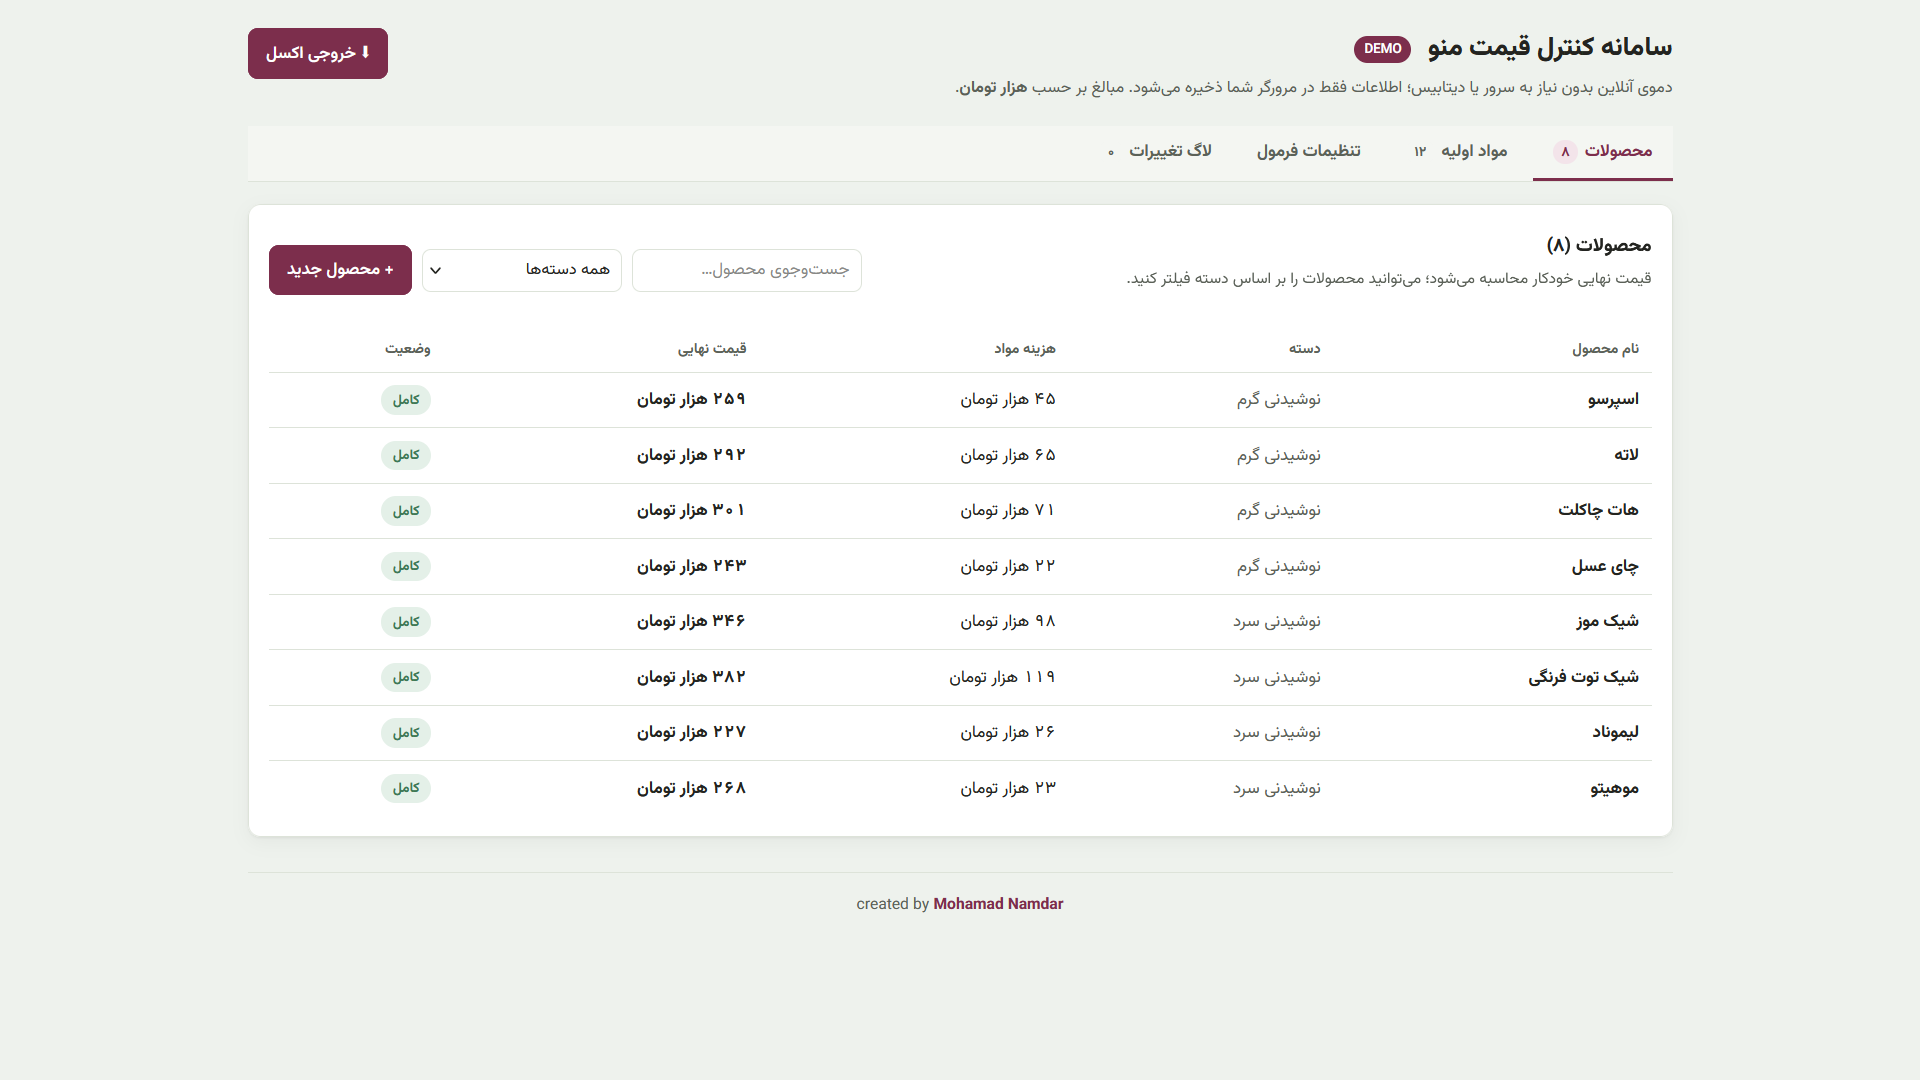
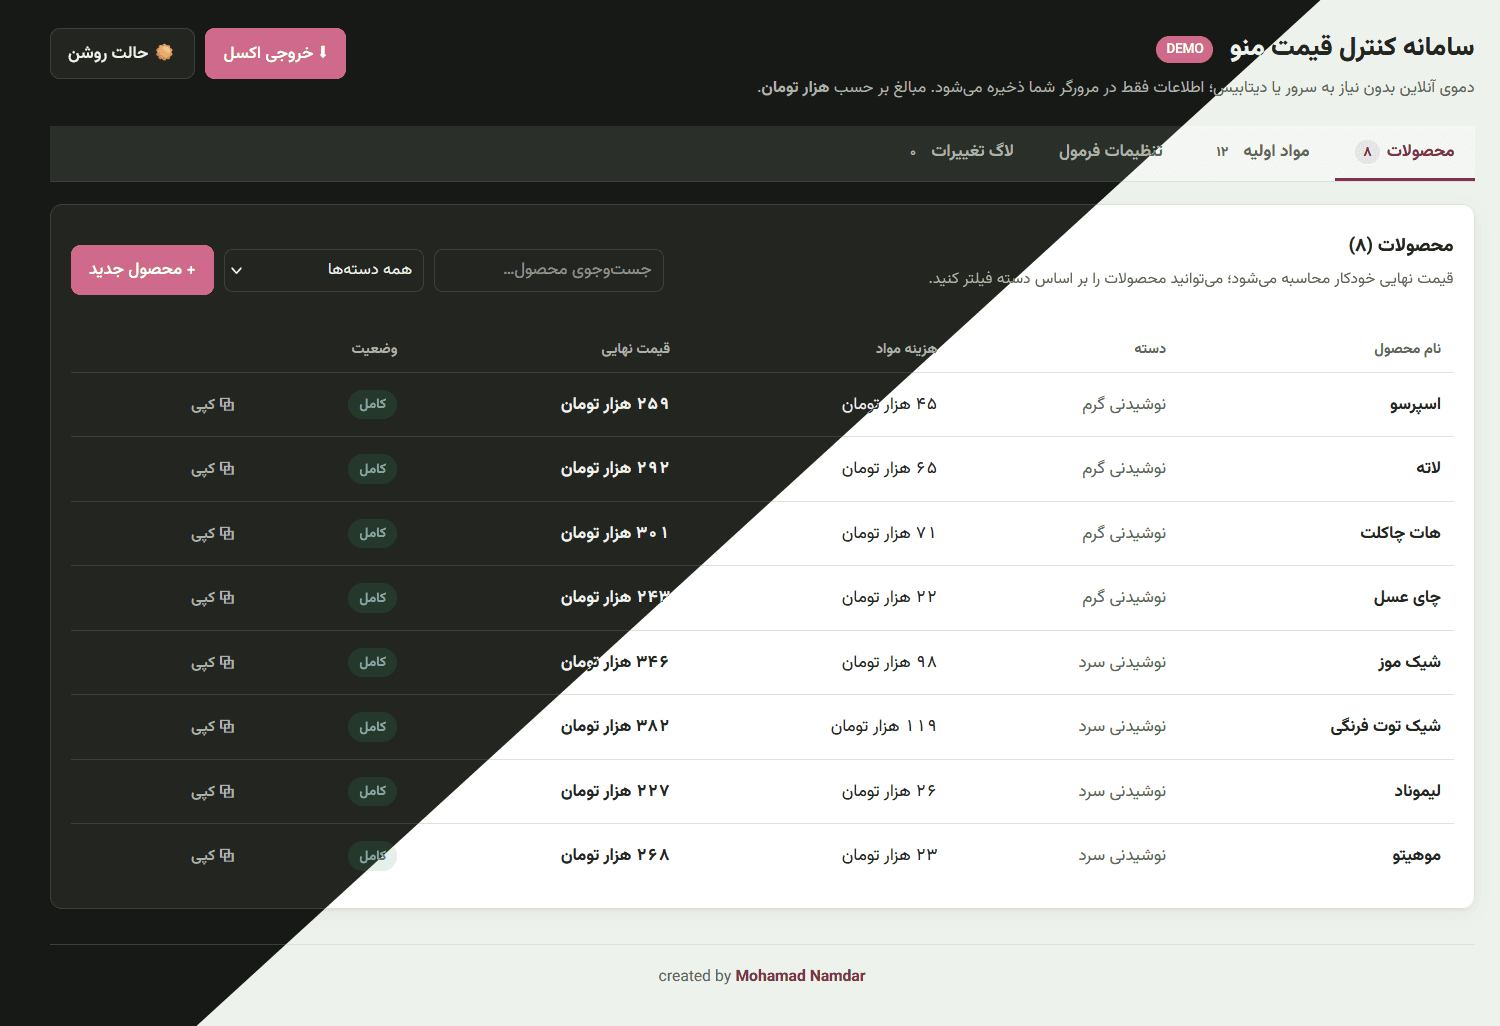
Dark/Light Theme

diff --git a/index.html b/index.html
@@ -27,6 +27,33 @@
   --radius:10px;
   --shadow:0 1px 2px rgba(35,36,32,.06), 0 4px 14px rgba(35,36,32,.05);
 }
+html[data-theme="dark"]{
+  --bg:#171916;
+  --surface:#232620;
+  --surface-2:#2B2F2A;
+  --border:#3B413A;
+  --ink:#F1F3EE;
+  --ink-soft:#AEB5AA;
+  --plum:#D06A8D;
+  --plum-dark:#B65376;
+  --plum-soft:#4A2B38;
+  --mango:#E0A15C;
+  --mango-soft:#4A3825;
+  --green:#79B18E;
+  --green-soft:#24382C;
+  --red:#E27B70;
+  --red-soft:#422825;
+}
+html[data-theme="dark"] input[type=number],
+html[data-theme="dark"] input[type=text],
+html[data-theme="dark"] select,
+html[data-theme="dark"] .modal,
+html[data-theme="dark"] .toolbar{background:var(--surface);color:var(--ink)}
+html[data-theme="dark"] .inline-name-input,
+html[data-theme="dark"] .recipe-name-input,
+html[data-theme="dark"] .recipe-container-input{color:var(--ink)}
+html[data-theme="dark"] .tabs{background:var(--surface-2)}
+html[data-theme="dark"] .modal-bg{background:rgba(0,0,0,.62)}
 *{box-sizing:border-box}
 html,body{margin:0;padding:0}
 body{
@@ -201,6 +228,24 @@ let UI = {
   productSearch: '',
   categoryFilter: '',
 };
+const THEME_KEY = 'recipe-cost-theme';
+function applyTheme(theme){
+  const t = theme === 'dark' ? 'dark' : 'light';
+  document.documentElement.dataset.theme = t;
+  try{ localStorage.setItem(THEME_KEY, t); }catch(e){}
+}
+function initTheme(){
+  let t = 'light';
+  try{ t = localStorage.getItem(THEME_KEY) || 'light'; }catch(e){}
+  applyTheme(t);
+}
+function toggleTheme(){
+  const next = document.documentElement.dataset.theme === 'dark' ? 'light' : 'dark';
+  applyTheme(next);
+  render();
+}
+initTheme();
+
 
 // ---------- Browser-local storage (GitHub Pages demo) ----------
 const DATA_KEY = 'app-data-v2';
@@ -564,6 +609,38 @@ function createRecipe(name, category){
   return r;
 }
 
+function duplicateRecipe(recipeId){
+  const source = recipeById(recipeId);
+  if(!source) return;
+  const prevCosts = allRecipeCosts();
+  const baseName = `${source.name} (کپی)`;
+  let name = baseName, n = 2;
+  while(STATE.recipes.some(r => r.name.trim().toLowerCase() === name.trim().toLowerCase())){
+    name = `${baseName} ${n++}`;
+  }
+  const copy = {
+    id: uid('rec'),
+    name,
+    category: source.category || '',
+    items: (source.items || []).map(it => ({...it})),
+  };
+  if(source.difficultyOverride !== undefined && source.difficultyOverride !== null){
+    copy.difficultyOverride = source.difficultyOverride;
+  }
+  STATE.recipes.push(copy);
+  if(copy.category){
+    if(!STATE.settings.categoryDifficulty) STATE.settings.categoryDifficulty = {};
+    if(STATE.settings.categoryDifficulty[copy.category] === undefined) STATE.settings.categoryDifficulty[copy.category] = 1;
+  }
+  persistData();
+  applyChangeAndLog({
+    type:'recipe_duplicate', targetId:copy.id, targetName:copy.name,
+    field:'کپی محصول با رسپی کامل', oldValue:source.name, newValue:copy.name
+  }, prevCosts);
+  UI.editModal = {type:'recipe', id:copy.id};
+  render();
+}
+
 function deleteRecipe(recipeId){
   const r = recipeById(recipeId);
   if(!r) return;
@@ -640,6 +717,7 @@ function renderTopbar(){
     </div>
     <div class="actions">
       <button class="primary" id="btn-export">⬇ خروجی اکسل</button>
+      <button id="btn-theme-toggle" title="تغییر حالت روشن/تاریک">${document.documentElement.dataset.theme === 'dark' ? '☀ حالت روشن' : '🌙 حالت تاریک'}</button>
     </div>
   </div>`;
 }
@@ -704,8 +782,8 @@ function renderProducts(){
 function renderProductsListOnly(){
   const q = UI.productSearch.trim();
   const list = STATE.recipes.filter(r => (!q || r.name.includes(q)) && (!UI.categoryFilter || r.category===UI.categoryFilter));
-  return `<div style="overflow-x:auto"><table><thead><tr><th>نام محصول</th><th>دسته</th><th>هزینه مواد</th><th>قیمت نهایی</th><th>وضعیت</th></tr></thead><tbody>
-    ${list.map(r=>{ const c=computeRecipeCost(r); const needsReview=r.items.some(it=>!it.isGarnish&&(it.needsReview||(ingredientById(it.ingredientId)?.unitPrice||0)===0)); return `<tr class="clickable" data-open-recipe="${r.id}"><td><b>${r.name}</b></td><td style="color:var(--ink-soft)">${r.category||'—'}</td><td class="num">${price(c.material)}</td><td class="num"><b>${price(c.finalPrice)}</b></td><td>${needsReview?'<span class="pill bad">نیاز به بررسی</span>':'<span class="pill ok">کامل</span>'}</td></tr>`; }).join('') || `<tr><td colspan="5" class="empty">موردی یافت نشد</td></tr>`}
+  return `<div style="overflow-x:auto"><table><thead><tr><th>نام محصول</th><th>دسته</th><th>هزینه مواد</th><th>قیمت نهایی</th><th>وضعیت</th><th></th></tr></thead><tbody>
+    ${list.map(r=>{ const c=computeRecipeCost(r); const needsReview=r.items.some(it=>!it.isGarnish&&(it.needsReview||(ingredientById(it.ingredientId)?.unitPrice||0)===0)); return `<tr class="clickable" data-open-recipe="${r.id}"><td><b>${r.name}</b></td><td style="color:var(--ink-soft)">${r.category||'—'}</td><td class="num">${price(c.material)}</td><td class="num"><b>${price(c.finalPrice)}</b></td><td>${needsReview?'<span class="pill bad">نیاز به بررسی</span>':'<span class="pill ok">کامل</span>'}</td><td><button class="ghost" data-duplicate-recipe="${r.id}" style="font-size:12px;padding:5px 9px" title="کپی کامل رسپی">⧉ کپی</button></td></tr>`; }).join('') || `<tr><td colspan="6" class="empty">موردی یافت نشد</td></tr>`}
   </tbody></table></div>`;
 }
 
@@ -767,7 +845,10 @@ function renderRecipeModal(recipeId){
     </div>
   </div>
   <div class="modal-foot" style="justify-content:space-between">
-    <button class="danger" id="btn-delete-recipe" data-recipe="${r.id}">حذف محصول</button>
+    <div style="display:flex;gap:8px;flex-wrap:wrap">
+      <button class="danger" id="btn-delete-recipe" data-recipe="${r.id}">حذف محصول</button>
+      <button id="btn-duplicate-recipe" data-recipe="${r.id}">⧉ کپی کامل رسپی</button>
+    </div>
     <button class="primary" id="modal-close2">تمام</button>
   </div>`;
 }
@@ -941,6 +1022,8 @@ function attachHandlers(){
 
   const exportBtn = document.getElementById('btn-export');
   if(exportBtn) exportBtn.onclick = exportExcel;
+  const themeBtn = document.getElementById('btn-theme-toggle');
+  if(themeBtn) themeBtn.onclick = toggleTheme;
 
   // ---------- products tab ----------
   wireSearchInput('product-search', 'products-list-wrapper', v=>{ UI.productSearch = v; }, renderProductsListOnly, ()=>attachProductsListHandlers());
@@ -1012,12 +1095,24 @@ function attachHandlers(){
     const qty = parseFloat(document.getElementById('new-item-qty').value) || 0;
     let ingId;
     if(newName){
-      const created = createIngredient(newName, newPurchasePrice, newPurchaseQty, newUnit);
-      ingId = created.id;
+      const normalizedName = newName.trim().replace(/\s+/g,' ').toLocaleLowerCase('fa-IR');
+      const existing = STATE.ingredients.find(i =>
+        (i.name || '').trim().replace(/\s+/g,' ').toLocaleLowerCase('fa-IR') === normalizedName
+      );
+      if(existing){
+        ingId = existing.id;
+      } else {
+        const created = createIngredient(newName, newPurchasePrice, newPurchaseQty, newUnit);
+        ingId = created.id;
+      }
     } else {
       ingId = document.getElementById('new-item-ing').value;
     }
     if(!ingId){ alert('ماده اولیه را انتخاب کنید یا نام جدید وارد کنید.'); return; }
+    if(recipeById(recipeId).items.some(i=>i.ingredientId===ingId)){
+      alert(`«${ingredientById(ingId)?.name || 'این ماده'}» قبلاً در این رسپی وجود دارد.`);
+      return;
+    }
     addIngredientToRecipe(recipeId, ingId, qty);
   };
   const editRecipeName = document.getElementById('edit-recipe-name');
@@ -1063,6 +1158,9 @@ function attachHandlers(){
 function attachProductsListHandlers(){
   document.querySelectorAll('[data-open-recipe]').forEach(el=>{
     el.onclick = ()=>{ UI.editModal = {type:'recipe', id: el.dataset.openRecipe}; render(); };
+  });
+  document.querySelectorAll('[data-duplicate-recipe]').forEach(el=>{
+    el.onclick = (e)=>{ e.stopPropagation(); duplicateRecipe(el.dataset.duplicateRecipe); };
   });
 }
 

diff --git a/templates/index.html b/templates/index.html
@@ -27,6 +27,33 @@
   --radius:10px;
   --shadow:0 1px 2px rgba(35,36,32,.06), 0 4px 14px rgba(35,36,32,.05);
 }
+html[data-theme="dark"]{
+  --bg:#171916;
+  --surface:#232620;
+  --surface-2:#2B2F2A;
+  --border:#3B413A;
+  --ink:#F1F3EE;
+  --ink-soft:#AEB5AA;
+  --plum:#D06A8D;
+  --plum-dark:#B65376;
+  --plum-soft:#4A2B38;
+  --mango:#E0A15C;
+  --mango-soft:#4A3825;
+  --green:#79B18E;
+  --green-soft:#24382C;
+  --red:#E27B70;
+  --red-soft:#422825;
+}
+html[data-theme="dark"] input[type=number],
+html[data-theme="dark"] input[type=text],
+html[data-theme="dark"] select,
+html[data-theme="dark"] .modal,
+html[data-theme="dark"] .toolbar{background:var(--surface);color:var(--ink)}
+html[data-theme="dark"] .inline-name-input,
+html[data-theme="dark"] .recipe-name-input,
+html[data-theme="dark"] .recipe-container-input{color:var(--ink)}
+html[data-theme="dark"] .tabs{background:var(--surface-2)}
+html[data-theme="dark"] .modal-bg{background:rgba(0,0,0,.62)}
 *{box-sizing:border-box}
 html,body{margin:0;padding:0}
 body{
@@ -201,6 +228,24 @@ let UI = {
   productSearch: '',
   categoryFilter: '',
 };
+const THEME_KEY = 'recipe-cost-theme';
+function applyTheme(theme){
+  const t = theme === 'dark' ? 'dark' : 'light';
+  document.documentElement.dataset.theme = t;
+  try{ localStorage.setItem(THEME_KEY, t); }catch(e){}
+}
+function initTheme(){
+  let t = 'light';
+  try{ t = localStorage.getItem(THEME_KEY) || 'light'; }catch(e){}
+  applyTheme(t);
+}
+function toggleTheme(){
+  const next = document.documentElement.dataset.theme === 'dark' ? 'light' : 'dark';
+  applyTheme(next);
+  render();
+}
+initTheme();
+
 
 // ---------- SQLite-backed storage via local Flask API ----------
 const DATA_KEY = 'app-data-v2';
@@ -570,6 +615,38 @@ function createRecipe(name, category){
   return r;
 }
 
+function duplicateRecipe(recipeId){
+  const source = recipeById(recipeId);
+  if(!source) return;
+  const prevCosts = allRecipeCosts();
+  const baseName = `${source.name} (کپی)`;
+  let name = baseName, n = 2;
+  while(STATE.recipes.some(r => r.name.trim().toLowerCase() === name.trim().toLowerCase())){
+    name = `${baseName} ${n++}`;
+  }
+  const copy = {
+    id: uid('rec'),
+    name,
+    category: source.category || '',
+    items: (source.items || []).map(it => ({...it})),
+  };
+  if(source.difficultyOverride !== undefined && source.difficultyOverride !== null){
+    copy.difficultyOverride = source.difficultyOverride;
+  }
+  STATE.recipes.push(copy);
+  if(copy.category){
+    if(!STATE.settings.categoryDifficulty) STATE.settings.categoryDifficulty = {};
+    if(STATE.settings.categoryDifficulty[copy.category] === undefined) STATE.settings.categoryDifficulty[copy.category] = 1;
+  }
+  persistData();
+  applyChangeAndLog({
+    type:'recipe_duplicate', targetId:copy.id, targetName:copy.name,
+    field:'کپی محصول با رسپی کامل', oldValue:source.name, newValue:copy.name
+  }, prevCosts);
+  UI.editModal = {type:'recipe', id:copy.id};
+  render();
+}
+
 function deleteRecipe(recipeId){
   const r = recipeById(recipeId);
   if(!r) return;
@@ -646,6 +723,7 @@ function renderTopbar(){
     </div>
     <div class="actions">
       <button class="primary" id="btn-export">⬇ خروجی اکسل</button>
+      <button id="btn-theme-toggle" title="تغییر حالت روشن/تاریک">${document.documentElement.dataset.theme === 'dark' ? '☀ حالت روشن' : '🌙 حالت تاریک'}</button>
     </div>
   </div>`;
 }
@@ -710,8 +788,8 @@ function renderProducts(){
 function renderProductsListOnly(){
   const q = UI.productSearch.trim();
   const list = STATE.recipes.filter(r => (!q || r.name.includes(q)) && (!UI.categoryFilter || r.category===UI.categoryFilter));
-  return `<div style="overflow-x:auto"><table><thead><tr><th>نام محصول</th><th>دسته</th><th>هزینه مواد</th><th>قیمت نهایی</th><th>وضعیت</th></tr></thead><tbody>
-    ${list.map(r=>{ const c=computeRecipeCost(r); const needsReview=r.items.some(it=>!it.isGarnish&&(it.needsReview||(ingredientById(it.ingredientId)?.unitPrice||0)===0)); return `<tr class="clickable" data-open-recipe="${r.id}"><td><b>${r.name}</b></td><td style="color:var(--ink-soft)">${r.category||'—'}</td><td class="num">${price(c.material)}</td><td class="num"><b>${price(c.finalPrice)}</b></td><td>${needsReview?'<span class="pill bad">نیاز به بررسی</span>':'<span class="pill ok">کامل</span>'}</td></tr>`; }).join('') || `<tr><td colspan="5" class="empty">موردی یافت نشد</td></tr>`}
+  return `<div style="overflow-x:auto"><table><thead><tr><th>نام محصول</th><th>دسته</th><th>هزینه مواد</th><th>قیمت نهایی</th><th>وضعیت</th><th></th></tr></thead><tbody>
+    ${list.map(r=>{ const c=computeRecipeCost(r); const needsReview=r.items.some(it=>!it.isGarnish&&(it.needsReview||(ingredientById(it.ingredientId)?.unitPrice||0)===0)); return `<tr class="clickable" data-open-recipe="${r.id}"><td><b>${r.name}</b></td><td style="color:var(--ink-soft)">${r.category||'—'}</td><td class="num">${price(c.material)}</td><td class="num"><b>${price(c.finalPrice)}</b></td><td>${needsReview?'<span class="pill bad">نیاز به بررسی</span>':'<span class="pill ok">کامل</span>'}</td><td><button class="ghost" data-duplicate-recipe="${r.id}" style="font-size:12px;padding:5px 9px" title="کپی کامل رسپی">⧉ کپی</button></td></tr>`; }).join('') || `<tr><td colspan="6" class="empty">موردی یافت نشد</td></tr>`}
   </tbody></table></div>`;
 }
 
@@ -773,7 +851,10 @@ function renderRecipeModal(recipeId){
     </div>
   </div>
   <div class="modal-foot" style="justify-content:space-between">
-    <button class="danger" id="btn-delete-recipe" data-recipe="${r.id}">حذف محصول</button>
+    <div style="display:flex;gap:8px;flex-wrap:wrap">
+      <button class="danger" id="btn-delete-recipe" data-recipe="${r.id}">حذف محصول</button>
+      <button id="btn-duplicate-recipe" data-recipe="${r.id}">⧉ کپی کامل رسپی</button>
+    </div>
     <button class="primary" id="modal-close2">تمام</button>
   </div>`;
 }
@@ -947,6 +1028,8 @@ function attachHandlers(){
 
   const exportBtn = document.getElementById('btn-export');
   if(exportBtn) exportBtn.onclick = exportExcel;
+  const themeBtn = document.getElementById('btn-theme-toggle');
+  if(themeBtn) themeBtn.onclick = toggleTheme;
 
   // ---------- products tab ----------
   wireSearchInput('product-search', 'products-list-wrapper', v=>{ UI.productSearch = v; }, renderProductsListOnly, ()=>attachProductsListHandlers());
@@ -1018,12 +1101,24 @@ function attachHandlers(){
     const qty = parseFloat(document.getElementById('new-item-qty').value) || 0;
     let ingId;
     if(newName){
-      const created = createIngredient(newName, newPurchasePrice, newPurchaseQty, newUnit);
-      ingId = created.id;
+      const normalizedName = newName.trim().replace(/\s+/g,' ').toLocaleLowerCase('fa-IR');
+      const existing = STATE.ingredients.find(i =>
+        (i.name || '').trim().replace(/\s+/g,' ').toLocaleLowerCase('fa-IR') === normalizedName
+      );
+      if(existing){
+        ingId = existing.id;
+      } else {
+        const created = createIngredient(newName, newPurchasePrice, newPurchaseQty, newUnit);
+        ingId = created.id;
+      }
     } else {
       ingId = document.getElementById('new-item-ing').value;
     }
     if(!ingId){ alert('ماده اولیه را انتخاب کنید یا نام جدید وارد کنید.'); return; }
+    if(recipeById(recipeId).items.some(i=>i.ingredientId===ingId)){
+      alert(`«${ingredientById(ingId)?.name || 'این ماده'}» قبلاً در این رسپی وجود دارد.`);
+      return;
+    }
     addIngredientToRecipe(recipeId, ingId, qty);
   };
   const editRecipeName = document.getElementById('edit-recipe-name');
@@ -1069,6 +1164,9 @@ function attachHandlers(){
 function attachProductsListHandlers(){
   document.querySelectorAll('[data-open-recipe]').forEach(el=>{
     el.onclick = ()=>{ UI.editModal = {type:'recipe', id: el.dataset.openRecipe}; render(); };
+  });
+  document.querySelectorAll('[data-duplicate-recipe]').forEach(el=>{
+    el.onclick = (e)=>{ e.stopPropagation(); duplicateRecipe(el.dataset.duplicateRecipe); };
   });
 }
 

diff --git a/README.md b/README.md
@@ -19,6 +19,9 @@
 - ثبت **لاگ تغییرات قیمت**
 - جستجو و فیلتر محصولات و مواد اولیه
 - خروجی اکسل
+- تشخیص خودکار ماده اولیه تکراری هنگام افزودن به رسپی و استفاده از ماده موجود
+- کپی کامل محصول به همراه تمام رسپی و تنظیم سختی اختصاصی
+- حالت روشن / تاریک با ذخیره انتخاب کاربر
 - ذخیره اطلاعات در **SQLite** در نسخه اصلی
 - اجرای محلی بدون نیاز به فریمورک یا پکیج جانبی Python
 - یک **دموی مستقل و بدون دیتابیس** در فایل `index.html`
